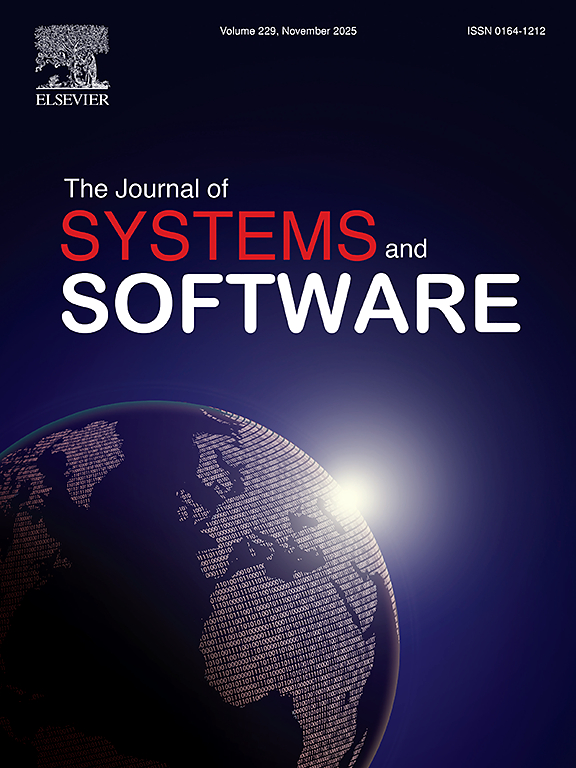
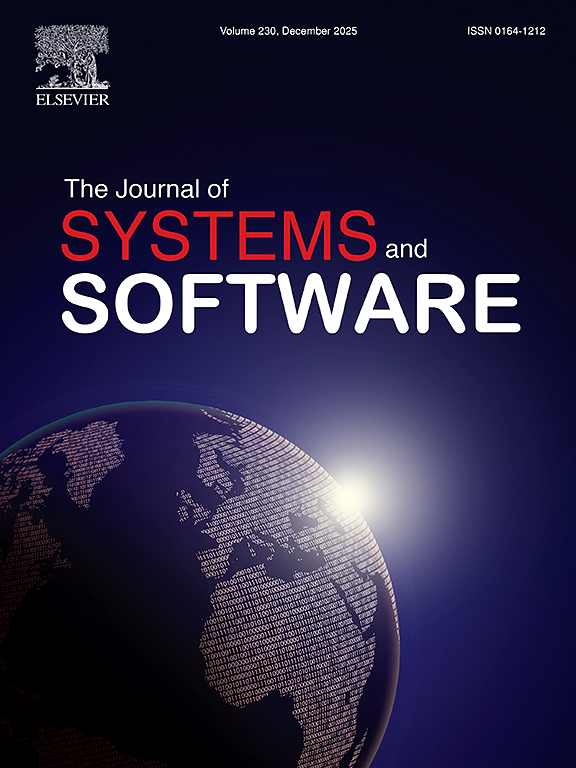
fix jss image

diff --git a/index.html b/index.html
@@ -1066,7 +1066,7 @@
     
     
     <a href="/publication/jss2025/" >
-      <img src="/publication/jss2025/featured_hu4b3f0610ce0330d2d1ccd7a3b7d0e150_357422_150x0_resize_q90_lanczos.jpg" alt="">
+      <img src="/publication/jss2025/featured_hu98f8d22532dde84e29c6ea17ef89126d_360467_150x0_resize_q90_lanczos.jpg" alt="">
     </a>
     
   </div>
@@ -2308,6 +2308,19 @@ Instituto Superior Técnico, University of Lisbon</a></h4>
     
     
       <div class="card experience course">
+        <div class="card-body"><a href="https://dei.tecnico.ulisboa.pt/en/events/domain-modelling/wednesdaysdei-talks-10-09-2025" target="_blank" rel="noopener"><h4 class="card-title exp-title text-muted my-0">From Logic to Learning: Rethinking Programming for the AI Era</h4></a><div class="card-subtitle my-0 article-metadata"><a href="https://dei.tecnico.ulisboa.pt" target="_blank" rel="noopener">Wednesdays@DEI Seminars, Departamento de Engenharia Informática (DEI),  Instituto Superior Técnico (IST), Universidade de Lisboa (UL)</a><span class="middot-divider"></span>
+
+            Sep 2025
+            
+          </div>
+
+          
+
+          
+        </div>
+      </div>
+    
+      <div class="card experience course">
         <div class="card-body"><a href="https://www.iiia.csic.es/es/noticias-y-eventos/detalles-de-los-seminarios/?seminar_id=140" target="_blank" rel="noopener"><h4 class="card-title exp-title text-muted my-0">Counterexample Guided Program Repair Using Large Language Models and MaxSAT-based Fault Localization</h4></a><div class="card-subtitle my-0 article-metadata"><a href="https://www.iiia.csic.es" target="_blank" rel="noopener">IIIA Seminars, Instituto de Investigación en Inteligencia Artificial (IIIA), Consejo Superior de Investigaciones Científicas (CSIC)</a><span class="middot-divider"></span>
 
             Jun 2025
@@ -2438,7 +2451,7 @@ Instituto Superior Técnico, University of Lisbon</a></h4>
       </div>
     
       <div class="card experience course">
-        <div class="card-body"><h4 class="card-title exp-title text-muted my-0">Learning Variable Mappings to Repair and Verify Programs</h4><div class="card-subtitle my-0 article-metadata"><a href="https://www.ciirc.cvut.cz/research-education/projects/ai-reasoning/" target="_blank" rel="noopener">AI&amp;Reasoning Project Seminars, CIIRC, CTU in Prague</a><span class="middot-divider"></span>
+        <div class="card-body"><h4 class="card-title exp-title text-muted my-0">Learning Variable Mappings to Repair and Verify Programs</h4><div class="card-subtitle my-0 article-metadata"><a href="https://www.ciirc.cvut.cz/research-education/projects/ai-reasoning/" target="_blank" rel="noopener">AI&amp;Reasoning Project Seminars, CIIRC, CTU in Prague, Czechia</a><span class="middot-divider"></span>
 
             Mar 2023
             
@@ -2467,6 +2480,19 @@ Instituto Superior Técnico, University of Lisbon</a></h4>
         <div class="card-body"><h4 class="card-title exp-title text-muted my-0">Learning Variable Mappings to Repair Programs</h4><div class="card-subtitle my-0 article-metadata"><a href="https://aitp-conference.org/2022/" target="_blank" rel="noopener">The 7th Conference on Artificial Intelligence and Theorem Proving, AITP 2022</a><span class="middot-divider"></span>
 
             Sep 2022
+            
+          </div>
+
+          
+
+          
+        </div>
+      </div>
+    
+      <div class="card experience course">
+        <div class="card-body"><h4 class="card-title exp-title text-muted my-0">Anonymized Abstract Syntax Trees and Invariant-Based Program Clustering</h4><div class="card-subtitle my-0 article-metadata"><a href="https://www.ciirc.cvut.cz/research-education/projects/ai-reasoning/" target="_blank" rel="noopener">AI&amp;Reasoning, Project Seminars, CIIRC, CTU in Prague, Czechia</a><span class="middot-divider"></span>
+
+            Mar 2022
             
           </div>
 
